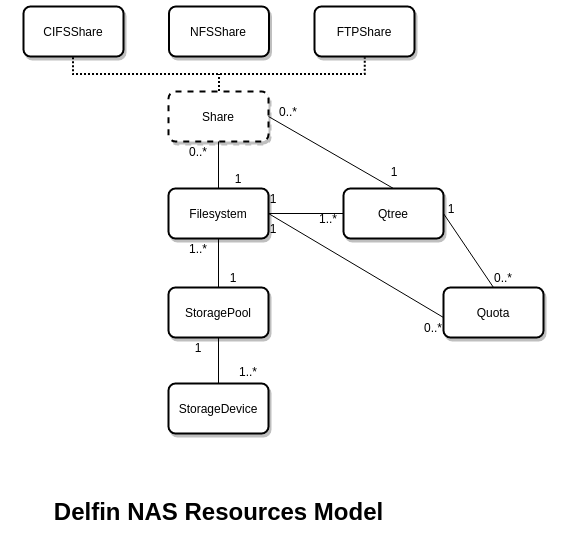
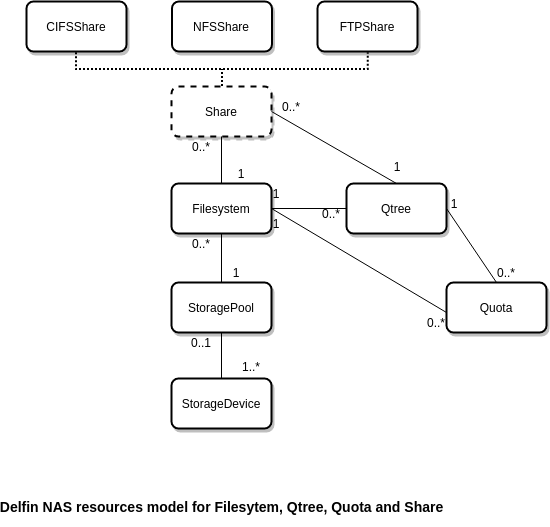
Address review comments

diff --git a/Analysis/DataStorageProjects/Delfin/NASModels/NASResources.md b/Analysis/DataStorageProjects/Delfin/NASModels/NASResources.md
@@ -49,19 +49,19 @@ The Filesystem provides flexible support for both traditional and transactional 
 Attributes | Type | Description
 -- | -- | --
 id | string | UUID of the Filesystem
-name | string | Name of the Filesystem
-storage_id | string | Delfin id of the associated storage
 native_filesystem_id | string | Original Filesystem id in the device
+name | string | Name of the Filesystem
+type | string | Allocation type (thick, thin)
+status | enum | Running status of the Filesystem (normal, faulty)
+storage_id | string | Delfin id of the associated storage
 native_pool_id | string | Original storage pool id in the device
 total_capacity | long | Total capacity in bytes of the Filesystem
 used_capacity | long | Used capacity in bytes of the Filesystem
 free_capacity | long | Free capacity in bytes of the Filesystem
-status | enum | Running status of the Filesystem (normal, offline, unknown)
-worm | bool | WORM supported (True, False)
-allocation_type | string | Allocation type (thick, thin)
-deduplication | bool | Filesystem deduplication (true, false)
-compression | bool | Filesystem compression (true, false)
-security_mode | string | Security Mode of Filesystem (mixed, native, windows, unix)
+worm | enum | WORM type (non_worm, audit_log, compliance, enterprise)
+deduplicated | bool | Filesystem deduplication (true, false)
+compressed | bool | Filesystem compression (true, false)
+security_mode | string | Security Mode of Filesystem (mixed, native, ntfs, unix)
 
 ### Qtree
 
@@ -85,14 +85,12 @@ Qtree also support,
 Attributes | Type | Description/enum
 -- | -- | --
 id | string | UUID of the Qtree
+native_qtree_id | string | Original Qtree id in the device
 name | string | Name of the Qtree
 storage_id | string | Delfin id of the associated storage
-native_qtree_id | string | Original Qtree id in the device
 native_filesystem_id | string | Original id of the parent filesystem
-quota_id | string | Delfin id of the quota applied to Qtree
 path | string | Path of the Qtree
-security_mode | string | Security Mode of Qtree (mixed, native, windows, unix)
-state | string | State of Qtree (normal, soft_limit, hard_limit, abnormal)
+security_mode | string | Security Mode of Qtree (mixed, native, ntfs, unix)
 
 ### Quota
 
@@ -101,21 +99,25 @@ Quota is limit applied to types like Qtrees, Users and User Groups
 Attributes | Type | Description
 -- | -- | --
 id | string | UUID of the quota
-native_qtree_id | string | Original Quota id in the device
+native_quota_id | string | Original Quota id in the device
+type | string | Quota type (tree, user, group)
 storage_id | string | Delfin id of the associated storage
-type | string | Quota type (Qtree, User, Group)
+native_filesystem_id | string | Original Filesystem id in the device
+native_qtree_id | string | Original Qtree id in the device
 capacity_hard_limit | long | Hard limit for the space
 capacity_soft_limit | long | Soft limit for the space
 file_hard_limit | long | Hard limit on the number of files
 file_soft_limit | long | Soft limit on the number of files
 file_count | long | Total number of files
 used_capacity | long | Used total capacity
+user_group_name | string | User or user group name
 
 ### Share
 
 Share is used for sharing files using one of the protocols below
 
 #### Types of Shares
+
 ##### CIFSShare
 
 File share protocol used to access NAS storage in Windows environment. Multiple CIFS Shares can be created for a Filesystem or Qtree to be accessed by different users and clients. It allows multiple access rules and supports authorized access
@@ -128,18 +130,15 @@ File share protocol used in Unix or Unix like OS environment. Multiple NFS Share
 
 The Filesystem or Qtree is accessed using FTP. Multiple FTP share access modes can be created for a Filesystem.
 
-
 Attributes | Type | Description
 -- | -- | --
 id | string | UUID of the Share
+native_share_id | string | Original Share id in the device
 name | string | Name of the Share
 storage_id | string | Delfin id of the associated storage
 native_filesystem_id | string | Original id of the parent filesystem
-qtree_id | string | Delfin id of the associated Qtree
-native_share_id | string | Original Share id in the device
-type | string | Share type (CIFS, NFS, FTP, UNKNOWN)
-offline_mode | string | Offline cache mode (Manual, documents, programs, none)
-oplock | bool | Oplock (true, false)
+native_qtree_id | string | Original id of the associated Qtree
+protocol | string | Share protocol (cifs, nfs, ftp, unknown)
 path | string | Path of the share in the Filesystem
 
 ## Impact on Delfin API
